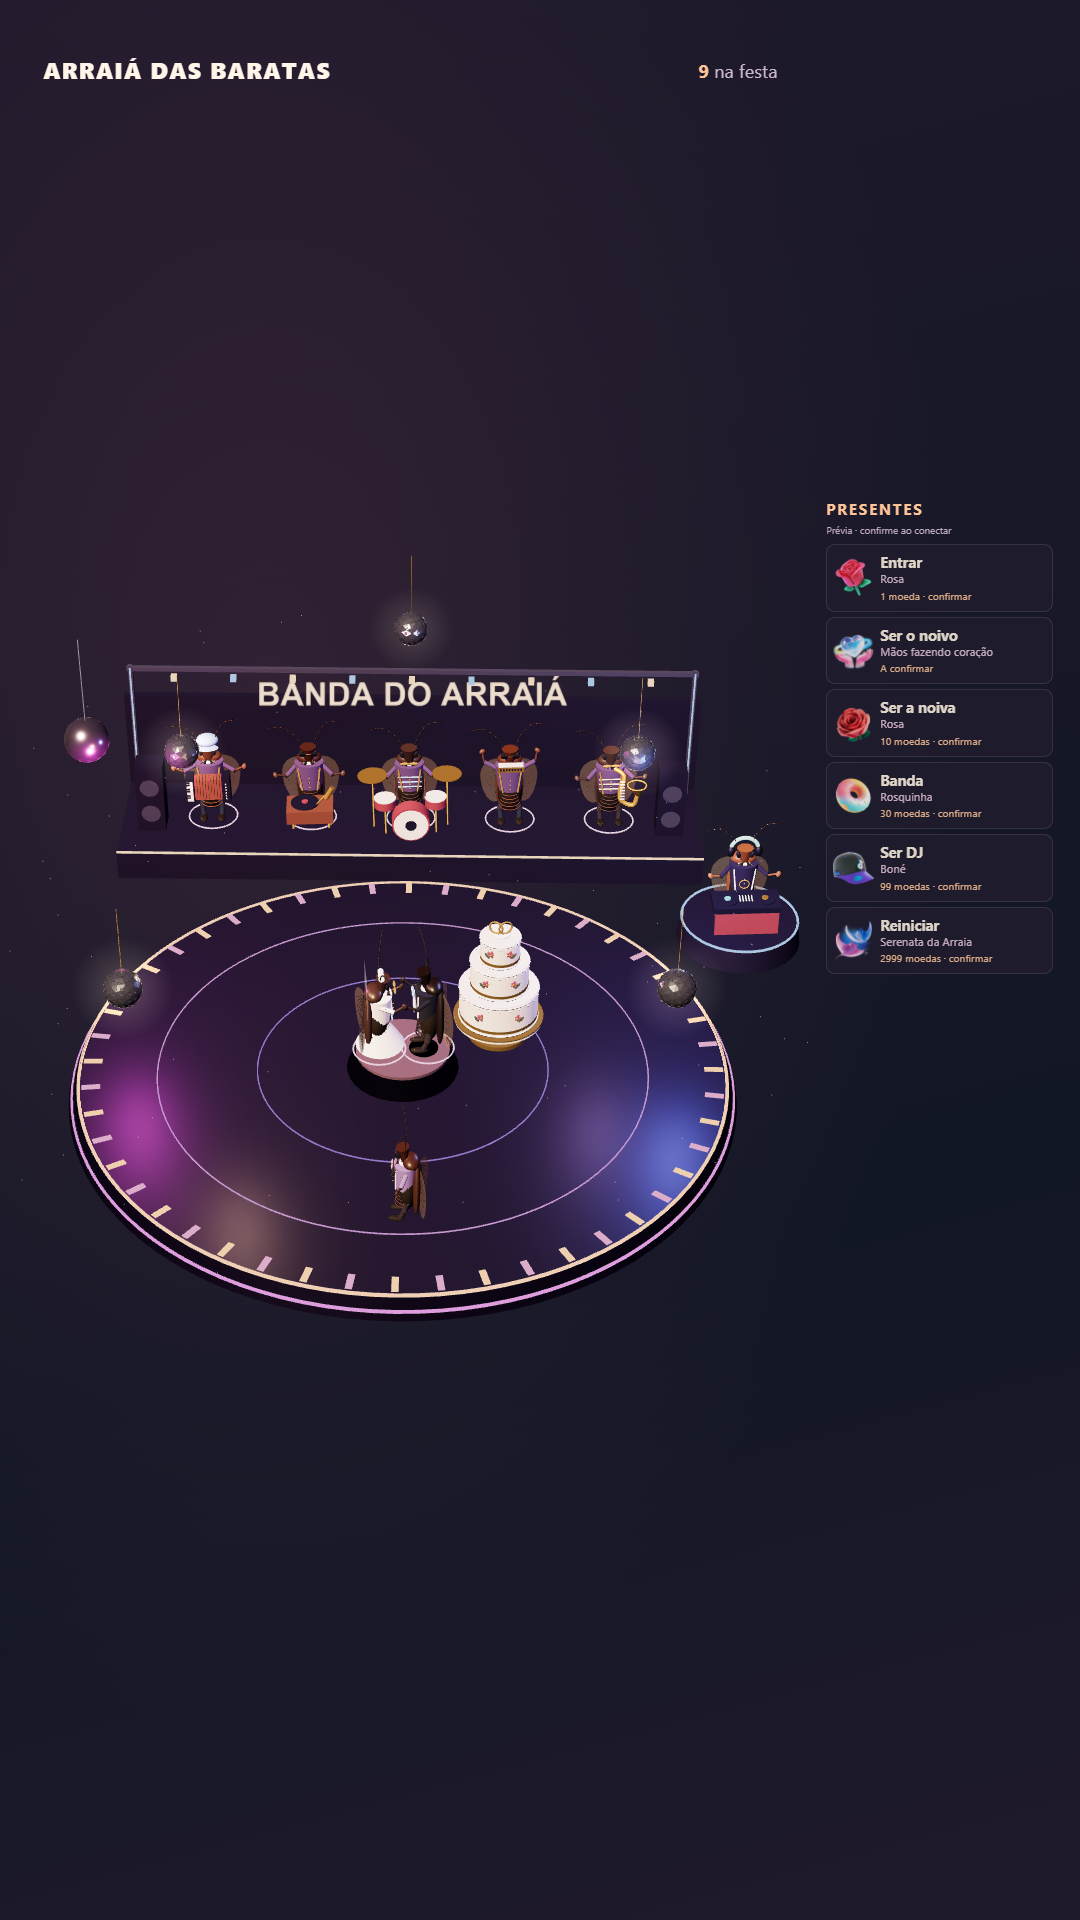
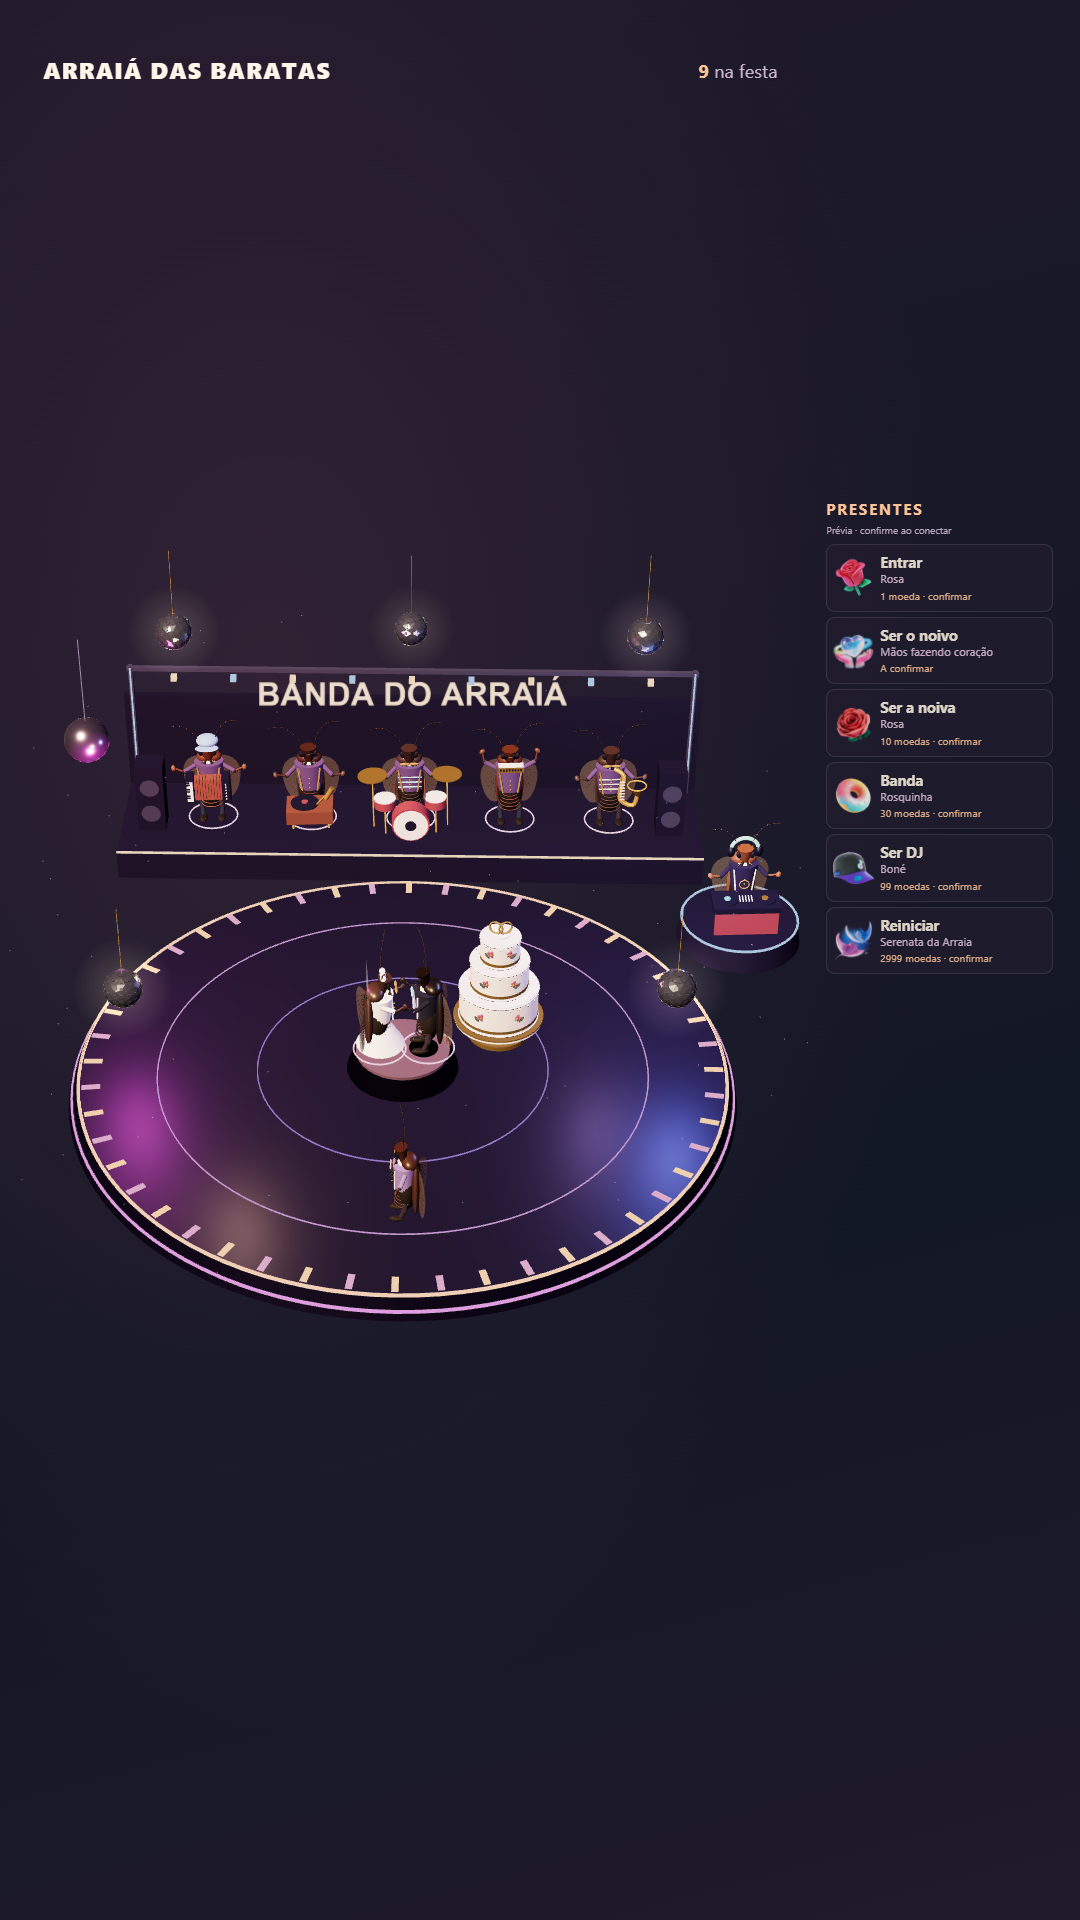
Ajusta globos para manter a banda visÃvel no cenÃ¡rio de casamento

diff --git a/public/wedding-decor.js b/public/wedding-decor.js
@@ -45,7 +45,7 @@ export function addWeddingDecor(scene){
  const glowTexture=new THREE.CanvasTexture(glowCanvas),globes=[];
  const mirror=new THREE.MeshStandardMaterial({color:'#b4b8c0',metalness:.9,roughness:.2,flatShading:true});
  const tileGeometry=new THREE.BoxGeometry(.065,.06,.015),sphereGeometry=new THREE.IcosahedronGeometry(.42,2);
- for(const [i,position] of [[-5.5,5.7,-5],[5.6,5.8,-5],[-6,4.9,3.5],[6,5.1,3.5],[0,6.4,-10]].entries()){
+ for(const [i,position] of [[-5.5,9,-5],[5.6,9,-5],[-6,4.9,3.5],[6,5.1,3.5],[0,6.4,-10]].entries()){
   const globe=new THREE.Group();globe.name='Globo de luz '+(i+1);globe.position.set(...position);group.add(globe);
   add(globe,sphereGeometry,mirror,0,0,0);
   const tiles=new THREE.InstancedMesh(tileGeometry,mirror,128),dummy=new THREE.Object3D();
